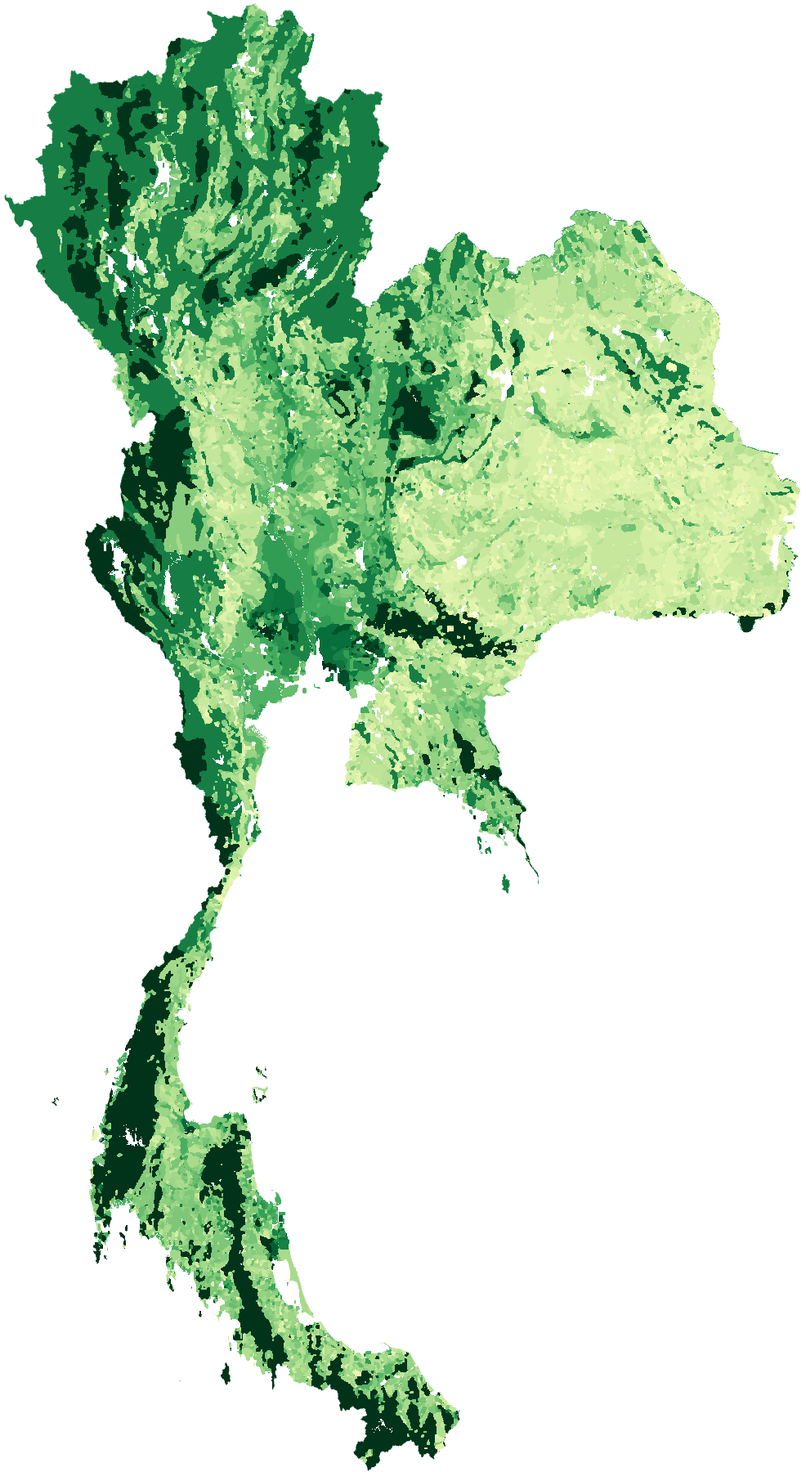
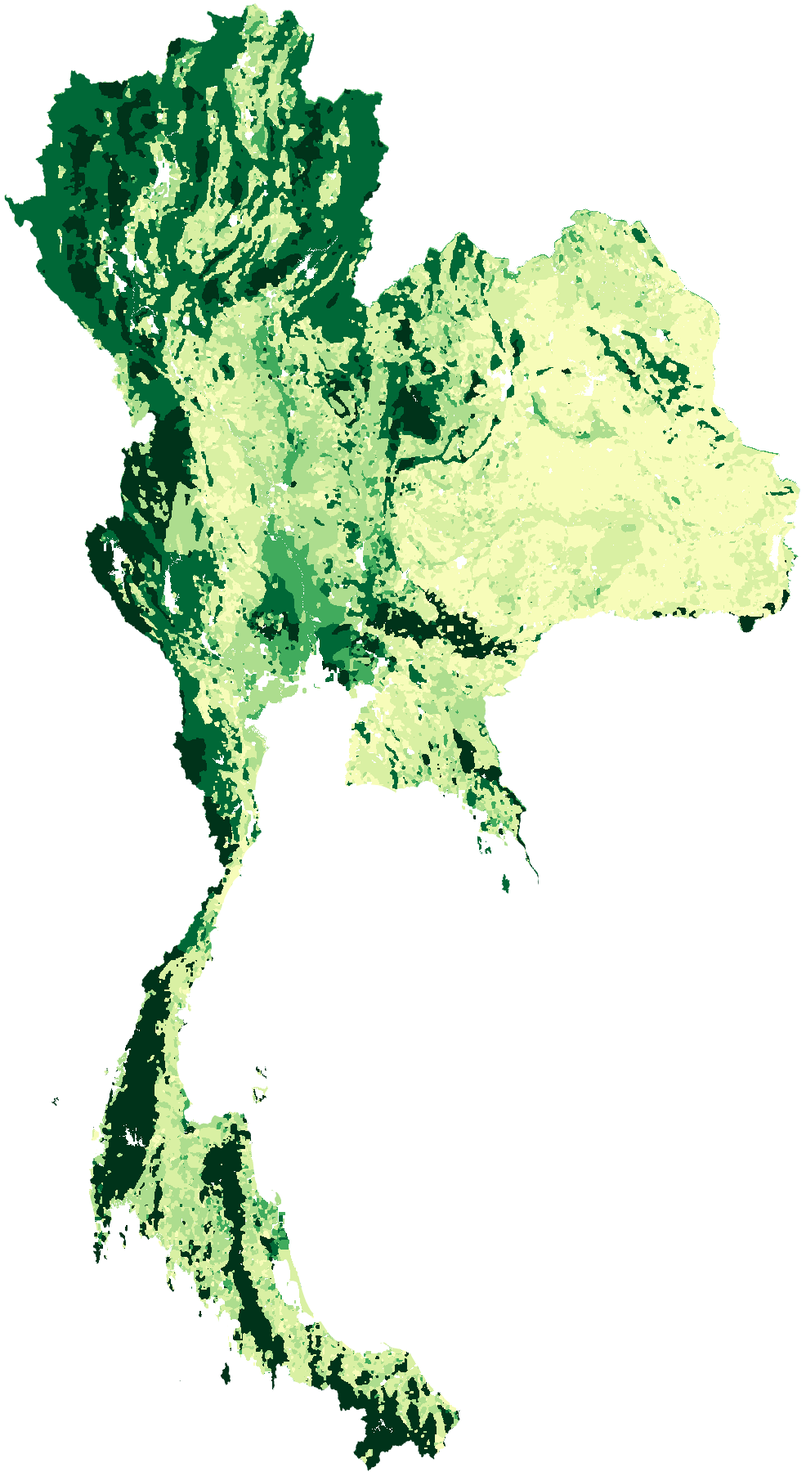
ช่วงชั้นและสีชุดเดียวทั้งระบบ (site/scales.js): จุด, คำอธิบายสี, SoilGrids และภาพจาก GEE
- SoilGrids วาดด้วยช่วงชั้นของเราผ่าน SLD (WMS ของ ISRIC), SOC แปลงเป็น OM %
- build_rasters.py จัดชั้นด้วย scales.js; OpenLandMap OC แปลงเป็น OM %
- pH 11 ระดับตาม LDD ทุกที่ (จุดสำรวจ, ผลวิเคราะห์, WoSIS, raster, บัตรดินดี)

Changed region(s): [[0.0913, 0.0, 0.9736, 0.9956], [0.426, 0.1556, 0.4564, 0.1867], [0.213, 0.0311, 0.2434, 0.0622]]

diff --git a/site/app.js b/site/app.js
@@ -1,10 +1,6 @@
 // แผนที่และตารางจุดสำรวจดิน (อ่านไฟล์ JSON ที่ระบบอัปเดตอัตโนมัติสร้างไว้)
-const PH_ORDER = [
-  ["กรดรุนแรงมากที่สุด", "#7f0000"], ["กรดรุนแรงมาก", "#b30000"], ["กรดจัดมาก", "#d7301f"],
-  ["กรดจัด", "#ef6548"], ["กรดปานกลาง", "#fc8d59"], ["กรดเล็กน้อย", "#fdbb84"],
-  ["เป็นกลาง", "#9ccc65"], ["ด่างเล็กน้อย", "#6baed6"], ["ด่างปานกลาง", "#3182bd"],
-  ["ด่างจัด", "#08519c"], ["Other", "#9e9e9e"],
-];
+// ระดับ pH ของจุดสำรวจภาคสนามใช้สีเดียวกับ SCALES.ph (scales.js); ต้นทางสะกด "กรดรุนแรงมากที่สุด" = "กรดรุนแรงที่สุด"
+const PH_ORDER = [...SCALES.ph.levels.map((l, i) => [l, SCALES.ph.colors[i]]), ["กรดรุนแรงมากที่สุด", SCALES.ph.colors[0]], ["Other", "#9e9e9e"]];
 const PH_COLOR = Object.fromEntries(PH_ORDER);
 const LEVEL_ORDER = ["ต่ำมาก", "ต่ำ", "ปานกลาง", "สูง", "สูงมาก", "Other"];
 const TABLE_LIMIT = 300;
@@ -12,10 +8,6 @@ const TABLE_LIMIT = 300;
 const HIDE_ON_MAP = ["no_coords", "outside_thailand", "off_land", "far_from_province", "no_location", "duplicate",
   "shared_coords", "multi_sample", "amphoe_mismatch", "date_future"];
 const confident = (flags) => !(flags || []).some((f) => HIDE_ON_MAP.includes(f));
-// สี pH ตามค่าจริง: [ค่าบน, สี, ระดับ]
-const PH_STOPS = [[4.5, "#b30000", "กรดรุนแรงมาก"], [5.1, "#d7301f", "กรดจัดมาก"], [5.6, "#ef6548", "กรดจัด"],
-  [6.1, "#fc8d59", "กรดปานกลาง"], [6.6, "#fdbb84", "กรดเล็กน้อย"], [7.4, "#9ccc65", "เป็นกลาง"],
-  [7.9, "#6baed6", "ด่างเล็กน้อย"], [8.5, "#3182bd", "ด่างปานกลาง"], [99, "#08519c", "ด่างจัด"]];
 
 const $ = (id) => document.getElementById(id);
 const esc = (s) => String(s ?? "").replace(/[&<>"]/g, (c) => ({ "&": "&amp;", "<": "&lt;", ">": "&gt;", '"': "&quot;" }[c]));
@@ -116,34 +108,47 @@ let wosisMeta = null;
 let osdSites = [];
 const OSD_PARAMS = [["ph", "pH", ""], ["ec_ds_m", "EC", "dS/m"], ["om_pct", "OM", "%"], ["p_mg_kg", "P", "mg/kg"], ["k_mg_kg", "K", "mg/kg"]];
 
-function phColor(v) {
-  return v == null ? "#9e9e9e" : PH_STOPS.find(([max]) => v < max)[1];
+// ช่วงชั้นและสีมาจาก SCALES (scales.js) ซึ่งแผนที่ดิน raster ใช้ชุดเดียวกัน
+function classIndex(key, v) {
+  const i = SCALES[key].bins.findIndex((b) => v < b);
+  return i < 0 ? SCALES[key].bins.length : i;
 }
+const scaleColor = (key, v) => (v == null ? null : SCALES[key].colors[classIndex(key, v)]);
+const phColor = (v) => scaleColor("ph", v) || "#9e9e9e";
+// [สี, ข้อความ] ของแต่ละชั้น สำหรับคำอธิบายสี
+function scaleItems(key) {
+  const { bins, colors, levels, unit } = SCALES[key];
+  return colors.map((c, i) => {
+    const lo = bins[i - 1], hi = bins[i];
+    const range = key === "ph"
+      ? (lo == null ? `< ${hi}` : hi == null ? `≥ ${lo}` : `${lo}–${(hi - 0.1).toFixed(1)}`)
+      : (lo == null ? `< ${hi}` : hi == null ? `> ${lo}` : `${lo}–${hi}`);
+    const label = key === "ph" ? `pH ${range}` : `${range} ${unit}`;
+    return [c, levels ? (key === "ph" ? `${label} ${val(levels[i])}` : `${val(levels[i])} ${label}`) : label];
+  });
+}
+const FERT_REF = "http://oss101.ldd.go.th/osr_data%26service/OSR_PDF/TB_SSK_Distribute/D_SSK567.pdf";
+const refNote = (key) => (SCALES[key].ref === "fert"
+  ? `${esc(t("fertRef"))} <a href="${FERT_REF}" target="_blank" rel="noopener">${esc(t("fertRefLink"))}</a>` : "");
 
 // ---------- ระบายสีจุดตามค่าที่เลือก ----------
 const NO_DATA = "#b8b2a7";
-const SEQ = ["#ffffcc", "#c7e9b4", "#7fcdbb", "#41b6c4", "#1d91c0", "#225ea8", "#0c2c84"];
-const SALT = ["#fff5eb", "#fdd0a2", "#fd8d3c", "#d94801", "#8c2d04", "#4a1500"];
-const TEX = ["#fff7ec", "#fdd49e", "#fc8d59", "#d7301f", "#990000", "#4d0000"];
-// เกณฑ์ความอุดมสมบูรณ์ของดิน 3 ระดับ (ต่ำ / ปานกลาง / สูง) ของกองสำรวจดิน (2523)
-const FERT = ["#d8b365", "#9bc7a4", "#01665e"];
-const FERT_REF = "http://oss101.ldd.go.th/osr_data%26service/OSR_PDF/TB_SSK_Distribute/D_SSK567.pdf";
-// bins = ค่าขอบบนของแต่ละช่วง; แหล่งที่ไม่มีค่านี้คืน null (แสดงเป็นสีจาง)
+// ค่าของแต่ละแหล่งสำหรับแต่ละตัวแปร (ช่วงชั้นอยู่ใน SCALES) — แหล่งที่ไม่มีค่านี้ไม่มี getter (แสดงเป็นสีจาง)
 const COLOR_VARS = {
-  ph: { unit: "", osd: (s) => s.ph, wosis: (s) => s.ph_h2o_0_30, ldd: "ph" },
-  ec: { unit: "dS/m", bins: [0.2, 0.5, 1, 2, 4], colors: SALT, osd: (s) => s.ec_ds_m, wosis: (s) => s.ec_ds_m_0_30 },
-  om: { unit: "%", bins: [1.5, 3.5], colors: FERT, ldd_ref: true, osd: (s) => s.om_pct,
-    wosis: (s) => (s.orgc_g_kg_0_30 == null ? null : s.orgc_g_kg_0_30 * 0.1724), ldd: "om" },   // OM ≈ OC × 1.724
-  n: { unit: "g/kg", bins: [0.5, 1, 1.5, 2, 3], colors: SEQ, wosis: (s) => s.n_g_kg_0_30 },
-  p: { unit: "mg/kg", bins: [10, 25], colors: FERT, ldd_ref: true, osd: (s) => s.p_mg_kg, ldd: "p" },
-  k: { unit: "mg/kg", bins: [60, 90], colors: FERT, ldd_ref: true, osd: (s) => s.k_mg_kg, ldd: "k" },
-  clay: { unit: "%", bins: [10, 20, 30, 40, 60], colors: TEX, wosis: (s) => s.clay_pct_0_30 },
-  silt: { unit: "%", bins: [10, 20, 30, 40, 60], colors: TEX, wosis: (s) => s.silt_pct_0_30 },
-  sand: { unit: "%", bins: [20, 40, 60, 70, 85], colors: TEX, wosis: (s) => s.sand_pct_0_30 },
-  cec: { unit: "cmol/kg", bins: [10, 20], colors: FERT, ldd_ref: true, wosis: (s) => s.cec_cmol_kg_0_30 },
+  ph: { osd: (s) => s.ph, wosis: (s) => s.ph_h2o_0_30, ldd: "ph" },
+  ec: { osd: (s) => s.ec_ds_m, wosis: (s) => s.ec_ds_m_0_30 },
+  om: { osd: (s) => s.om_pct, wosis: (s) => (s.orgc_g_kg_0_30 == null ? null : s.orgc_g_kg_0_30 * 0.1724), ldd: "om" },   // OM ≈ OC × 1.724
+  n: { wosis: (s) => s.n_g_kg_0_30 },
+  p: { osd: (s) => s.p_mg_kg, ldd: "p" },
+  k: { osd: (s) => s.k_mg_kg, ldd: "k" },
+  clay: { wosis: (s) => s.clay_pct_0_30 },
+  silt: { wosis: (s) => s.silt_pct_0_30 },
+  sand: { wosis: (s) => s.sand_pct_0_30 },
+  cec: { wosis: (s) => s.cec_cmol_kg_0_30 },
 };
-// ระดับของจุดสำรวจภาคสนาม (5 ระดับ) รวมเป็น 3 ระดับตามเกณฑ์ข้างบน
-const LEVEL_COLORS = { "ต่ำมาก": FERT[0], "ต่ำ": FERT[0], "ปานกลาง": FERT[1], "สูง": FERT[2], "สูงมาก": FERT[2] };
+// ระดับของจุดสำรวจภาคสนาม (5 ระดับ) รวมเป็น 3 ระดับตามเกณฑ์ความอุดมสมบูรณ์
+const FERT3 = SCALES.om.colors;
+const LEVEL_COLORS = { "ต่ำมาก": FERT3[0], "ต่ำ": FERT3[0], "ปานกลาง": FERT3[1], "สูง": FERT3[2], "สูงมาก": FERT3[2] };
 let colorVar = "ph";
 
 function colorFor(source, rec) {
@@ -152,11 +157,7 @@ function colorFor(source, rec) {
     if (!def.ldd) return null;
     return (def.ldd === "ph" ? PH_COLOR[rec.ph] : LEVEL_COLORS[rec[def.ldd]]) || null;
   }
-  const v = def[source]?.(rec);
-  if (v == null) return null;
-  if (colorVar === "ph") return phColor(v);
-  const i = def.bins.findIndex((b) => v < b);
-  return def.colors[i < 0 ? def.bins.length : i];
+  return scaleColor(colorVar, def[source]?.(rec));
 }
 function styleFor(source, rec) {
   const c = colorFor(source, rec);
@@ -186,25 +187,12 @@ function renderLegend() {
   const sel = $("color-by"), cur = colorVar;
   sel.innerHTML = Object.keys(COLOR_VARS).map((k) => `<option value="${k}">${esc(t("vars")[k])}</option>`).join("");
   sel.value = cur;
-  let items;
-  if (colorVar === "ph") {
-    items = PH_STOPS.map(([max, c, l], i) => {
-      const lo = i ? PH_STOPS[i - 1][0] : null;
-      const range = lo == null ? `< ${max}` : max > 14 ? `≥ ${lo}` : `${lo}–${(max - 0.1).toFixed(1)}`;
-      return [c, `pH ${range} ${val(l)}`];
-    });
-  } else {
-    items = def.colors.slice(0, def.bins.length + 1).map((c, i) => {
-      const lo = def.bins[i - 1], hi = def.bins[i];
-      const range = `${lo == null ? `< ${hi}` : hi == null ? `> ${lo}` : `${lo}–${hi}`} ${def.unit}`;
-      return [c, def.ldd_ref ? `${t("fertLevels")[i]} ${range}` : range];
-    });
-  }
+  const items = scaleItems(colorVar);
   const sources = ["wosis", "osd", "ldd"].filter((s) => def[s]).map((s) => t({ wosis: "layerWosis", osd: "layerOsd", ldd: "layerLdd" }[s]));
   $("legend").innerHTML = items.map(([c, l]) => `<li><i style="background:${c}"></i>${esc(l)}</li>`).join("") +
     `<li><i style="background:${NO_DATA};opacity:.5"></i>${esc(t("noValue"))}</li>` +
     `<li class="muted small">${esc(t("varSources")(sources.join(", ")))}${colorVar === "om" ? ` · ${esc(t("omNote"))}` : ""}</li>` +
-    (def.ldd_ref ? `<li class="muted small">${esc(t("fertRef"))} <a href="${FERT_REF}" target="_blank" rel="noopener">${esc(t("fertRefLink"))}</a></li>` : "");
+    (refNote(colorVar) ? `<li class="muted small">${refNote(colorVar)}</li>` : "");
 }
 
 function osdPopup(s) {

diff --git a/site/areas.js b/site/areas.js
@@ -105,17 +105,15 @@ const landCover = new LandCoverLayer("", {
 });
 
 // ---------- แผนที่ดิน (raster): SoilGrids ผ่าน WMS ของ ISRIC, อื่น ๆ เป็นภาพจาก Earth Engine (build_rasters.py) ----------
-// [id, map, layer, ชื่อ th, ชื่อ en, ตัวหารเป็นหน่วยจริง, หน่วย]
+// [id, map, layer, ชื่อ th, ชื่อ en, ช่วงชั้นใน SCALES, ตัวคูณจากค่าดิบของ ISRIC เป็นหน่วยของช่วงชั้น]
 const SOILGRIDS = [
-  ["sg_ph", "phh2o", "phh2o_0-5cm_mean", "pH ดินผิว 0–5 cm (SoilGrids 250 m)", "Topsoil pH 0–5 cm (SoilGrids 250 m)", 10, "pH"],
-  ["sg_soc", "soc", "soc_0-5cm_mean", "อินทรีย์คาร์บอน 0–5 cm (SoilGrids)", "Organic carbon 0–5 cm (SoilGrids)", 10, "g/kg"],
-  ["sg_clay", "clay", "clay_0-5cm_mean", "ดินเหนียว 0–5 cm (SoilGrids)", "Clay 0–5 cm (SoilGrids)", 10, "%"],
-  ["sg_n", "nitrogen", "nitrogen_0-5cm_mean", "ไนโตรเจน 0–5 cm (SoilGrids)", "Nitrogen 0–5 cm (SoilGrids)", 100, "g/kg"],
-  ["sg_cec", "cec", "cec_0-5cm_mean", "CEC 0–5 cm (SoilGrids)", "CEC 0–5 cm (SoilGrids)", 10, "cmol/kg"],
+  ["sg_ph", "phh2o", "phh2o_0-5cm_mean", "pH ดินผิว 0–5 cm (SoilGrids 250 m)", "Topsoil pH 0–5 cm (SoilGrids 250 m)", "ph", 0.1],
+  ["sg_om", "soc", "soc_0-5cm_mean", "อินทรียวัตถุ (OM) 0–5 cm จาก SOC (SoilGrids)", "Organic matter 0–5 cm from SOC (SoilGrids)", "om", 0.01724],   // dg/kg → OM % (× 1.724)
+  ["sg_clay", "clay", "clay_0-5cm_mean", "ดินเหนียว 0–5 cm (SoilGrids)", "Clay 0–5 cm (SoilGrids)", "clay", 0.1],
+  ["sg_n", "nitrogen", "nitrogen_0-5cm_mean", "ไนโตรเจน 0–5 cm (SoilGrids)", "Nitrogen 0–5 cm (SoilGrids)", "n", 0.01],
+  ["sg_cec", "cec", "cec_0-5cm_mean", "CEC 0–5 cm (SoilGrids)", "CEC 0–5 cm (SoilGrids)", "cec", 0.1],
 ];
 const SG_WMS = "https://maps.isric.org/mapserv?map=/map/";
-// สีและค่าขอบจากภาพ legend ของ ISRIC (GetLegendGraphic) — ใช้วาดแถบสีให้อ่านง่าย
-const SG_LEGEND = {"phh2o": {"colors": ["#f0f63d", "#ebe51a", "#a5db36", "#81d255", "#54b93a", "#39b32f", "#359d3b", "#2c9840", "#34b07a", "#28b6b5", "#0fccd9"], "labels": [34, 48, 51, 52, 54, 55, 56, 57, 58, 59, 60, 61, 62, 64, 65, 67, 68, 70, 72, 73, 75, 76, 77, 79, 79, 80, 81, 82, 83, 92]}, "soc": {"colors": ["#fbf9f9", "#ede7e5", "#dfd4d1", "#d2c2bd", "#c4afa9", "#b69d95", "#a98a82", "#9b786e", "#8d655a", "#7f5246", "#724032"], "labels": [6, 27, 38, 43, 53, 64, 85, 106, 127, 142, 163, 184, 210, 236, 268, 299, 330, 362, 398, 445, 492, 560, 633, 727, 832, 962, 1114, 1312, 1521, 1839, 2174, 4471]}, "clay": {"colors": ["#f2dac1", "#e7c4a0", "#dcae80", "#d19860", "#c5894d", "#b97e44", "#ac743b", "#9f6832", "#935e29", "#875320", "#7a4917", "#764615"], "labels": [7, 32, 58, 83, 109, 134, 160, 185, 211, 236, 262, 288, 313, 339, 364, 390, 415, 441, 466, 492, 517, 543, 569, 594, 620, 645, 671, 696, 722, 747, 773, 799]}, "nitrogen": {"colors": ["#f7fcf5", "#eaf7e6", "#d7f0d1", "#bee6b8", "#a2da9c", "#81ca80", "#5cb96a", "#3aa458", "#248c46", "#14853c", "#057f33", "#007d30"], "labels": [42, 80, 119, 157, 196, 234, 273, 311, 350, 388, 427, 466, 504, 543, 581, 620, 658, 697, 735, 774, 812, 851, 890, 928, 967, 1005, 1044, 1082, 1121, 1159, 1198, 1237]}, "cec": {"colors": ["#edf8fb", "#d7e8f2", "#c0d7e9", "#adc4df", "#9eafd3", "#8f9ac8", "#8b81bc", "#8968b0", "#8e50aa", "#a837b4", "#c11fbe", "#ca17c2"], "labels": [11, 95, 111, 122, 130, 137, 145, 153, 161, 170, 179, 189, 199, 209, 219, 229, 239, 249, 258, 270, 282, 296, 313, 337, 359, 380, 404, 431, 465, 505, 570, 852]}};
 let rasterMeta = [];
 let rasterLayer = null;
 
@@ -146,25 +144,26 @@ const MapLegend = L.Control.extend({
 map.addControl(new MapLegend());
 let legendOpen = true;
 
-// แถบสี + ค่า 5 ตำแหน่ง (ช่วงค่าของ SoilGrids ไม่เป็นเส้นตรง จึงอ่านค่าจากตำแหน่งในรายการขอบ)
-function sgRamp(sg) {
-  const { colors, labels } = SG_LEGEND[sg[1]];
-  const ticks = [0, .25, .5, .75, 1].map((f) => +(labels[Math.round(f * (labels.length - 1))] / sg[5]).toFixed(sg[5] >= 100 ? 2 : 1));
-  return `<div class="ramp" style="background:linear-gradient(to right,${colors.join(",")})"></div>
-    <div class="ramp-labels">${ticks.map((v) => `<span>${v}</span>`).join("")}</div><p>${t("unit")}: ${sg[6]}</p>`;
+// สไตล์ SLD ให้ WMS ของ ISRIC วาดด้วยช่วงชั้นและสีเดียวกับจุด (สีของแต่ละรายการใช้ตั้งแต่ค่านั้นถึงรายการถัดไป)
+function sgSld(sg) {
+  const { bins, colors } = SCALES[sg[5]];
+  const entries = colors.map((c, i) => [c, i ? bins[i - 1] / sg[6] : 0]).concat([[colors[colors.length - 1], 1e7]]);
+  return `<StyledLayerDescriptor version="1.0.0" xmlns="http://www.opengis.net/sld"><NamedLayer><Name>${sg[2]}</Name><UserStyle><FeatureTypeStyle><Rule><RasterSymbolizer><ColorMap type="intervals">` +
+    entries.map(([c, q]) => `<ColorMapEntry color="${c}" quantity="${+q.toFixed(3)}"/>`).join("") +
+    "</ColorMap></RasterSymbolizer></Rule></FeatureTypeStyle></UserStyle></NamedLayer></StyledLayerDescriptor>";
 }
+const scaleList = (key) => `<ul class="legend">${scaleItems(key).map(([c, l]) => `<li><i style="background:${c}"></i>${esc(l)}</li>`).join("")}</ul>` +
+  (refNote(key) ? `<p>${refNote(key)}</p>` : "");
 
 function rasterLegend() {
   const id = $("raster").value, sg = SOILGRIDS.find((r) => r[0] === id), im = rasterMeta.find((r) => r.id === id);
   const parts = [];
   if (rasterLayer && sg) {
     parts.push(`<section><b>${esc(lang === "en" ? sg[4] : sg[3])}</b>
-      ${sgRamp(sg)}<p>ISRIC SoilGrids 2.0 · CC BY 4.0 · ${t("rasterEstimate")}</p></section>`);
+      ${scaleList(sg[5])}<p>ISRIC SoilGrids 2.0 · CC BY 4.0 · ${t("rasterEstimate")}</p></section>`);
   } else if (rasterLayer && im) {
     parts.push(`<section><b>${esc(lang === "en" ? im.en : im.th)}</b>
-      <div class="ramp" style="background:linear-gradient(to right,${im.palette.join(",")})"></div>
-      <div class="ramp-labels"><span>${im.min}</span><span>${im.unit}</span><span>${im.max}+</span></div>
-      <p>${esc(im.source)} · ${esc(im.license)} · ${t("rasterEstimate")}</p></section>`);
+      ${scaleList(im.scale)}<p>${esc(im.source)} · ${esc(im.license)} · ${t("rasterEstimate")}</p></section>`);
   }
   if ($("l-lc").checked) {
     parts.push(`<section><b>${t("layerLandcover")} · ${$("lc-year").value}</b><ul class="legend lc">
@@ -183,6 +182,7 @@ function setRaster() {
   if (sg) {
     rasterLayer = L.tileLayer.wms(`${SG_WMS}${sg[1]}.map`, {
       layers: sg[2], format: "image/png", transparent: true, version: "1.3.0", opacity, pane: "rasters",
+      sld_body: sgSld(sg),
       attribution: "SoilGrids © ISRIC (CC BY 4.0)",
     });
   } else if (im) {

diff --git a/site/scales.js b/site/scales.js
@@ -1,0 +1,19 @@
+// ช่วงชั้นและสีของทุกค่า — ใช้ร่วมกันทั้งระบบ: สีจุดบนแผนที่, คำอธิบายสี, แผนที่ดิน raster (SoilGrids ผ่าน SLD
+// และภาพจาก scripts/build_rasters.py ซึ่งอ่านไฟล์นี้) — เนื้อหาหลัง "=" ต้องเป็น JSON
+// bins = ขอบบนของแต่ละชั้น (ค่า < bins[0] ได้สีแรก), colors มากกว่า bins หนึ่งสี
+// levels: ชื่อระดับ (th) ของแต่ละชั้น; ref "fert" = เกณฑ์ความอุดมสมบูรณ์ของดิน กองสำรวจดิน (2523)
+const SCALES = {
+ "ph": {"unit": "", "bins": [3.5, 4.5, 5.1, 5.6, 6.1, 6.6, 7.4, 7.9, 8.5, 9.1],
+        "colors": ["#67000d", "#b30000", "#d7301f", "#ef6548", "#fc8d59", "#fdbb84", "#9ccc65", "#6baed6", "#3182bd", "#08519c", "#08306b"],
+        "levels": ["กรดรุนแรงที่สุด", "กรดรุนแรงมาก", "กรดจัดมาก", "กรดจัด", "กรดปานกลาง", "กรดเล็กน้อย", "เป็นกลาง", "ด่างเล็กน้อย", "ด่างปานกลาง", "ด่างจัด", "ด่างจัดมาก"]},
+ "ec": {"unit": "dS/m", "bins": [0.2, 0.5, 1, 2, 4], "colors": ["#fff5eb", "#fdd0a2", "#fd8d3c", "#d94801", "#8c2d04", "#4a1500"]},
+ "om": {"unit": "%", "bins": [1.5, 3.5], "colors": ["#d8b365", "#9bc7a4", "#01665e"], "levels": ["ต่ำ", "ปานกลาง", "สูง"], "ref": "fert"},
+ "n": {"unit": "g/kg", "bins": [0.5, 1, 1.5, 2, 3], "colors": ["#ffffcc", "#c7e9b4", "#7fcdbb", "#41b6c4", "#225ea8", "#0c2c84"]},
+ "p": {"unit": "mg/kg", "bins": [10, 25], "colors": ["#d8b365", "#9bc7a4", "#01665e"], "levels": ["ต่ำ", "ปานกลาง", "สูง"], "ref": "fert"},
+ "k": {"unit": "mg/kg", "bins": [60, 90], "colors": ["#d8b365", "#9bc7a4", "#01665e"], "levels": ["ต่ำ", "ปานกลาง", "สูง"], "ref": "fert"},
+ "clay": {"unit": "%", "bins": [10, 20, 30, 40, 60], "colors": ["#fff7ec", "#fdd49e", "#fc8d59", "#d7301f", "#990000", "#4d0000"]},
+ "silt": {"unit": "%", "bins": [10, 20, 30, 40, 60], "colors": ["#fff7ec", "#fdd49e", "#fc8d59", "#d7301f", "#990000", "#4d0000"]},
+ "sand": {"unit": "%", "bins": [20, 40, 60, 70, 85], "colors": ["#fff7ec", "#fdd49e", "#fc8d59", "#d7301f", "#990000", "#4d0000"]},
+ "cec": {"unit": "cmol/kg", "bins": [10, 20], "colors": ["#d8b365", "#9bc7a4", "#01665e"], "levels": ["ต่ำ", "ปานกลาง", "สูง"], "ref": "fert"},
+ "gsoc": {"unit": "t/ha", "bins": [20, 40, 60, 80, 100], "colors": ["#f7fcb9", "#d9f0a3", "#addd8e", "#41ab5d", "#006837", "#00331a"]}
+};

diff --git a/site/check.js b/site/check.js
@@ -1,10 +1,6 @@
 // ตรวจดินจากพิกัด: ค่าวัดจริงใกล้เคียง (LDD, ผลวิเคราะห์ดิน, WoSIS), ค่าประมาณจากแผนที่ดินโลก, บัตรดินดีของตำบล
-// ใช้ตัวแปรร่วมจาก app.js: map, t, esc, num, day, val, phColor, $ และ areaAt จาก areas.js
-const PH_CLASSES = [
-  [3.5, "กรดรุนแรงที่สุด"], [4.5, "กรดรุนแรงมาก"], [5.1, "กรดจัดมาก"], [5.6, "กรดจัด"], [6.1, "กรดปานกลาง"],
-  [6.6, "กรดเล็กน้อย"], [7.4, "เป็นกลาง"], [7.9, "ด่างเล็กน้อย"], [8.5, "ด่างปานกลาง"], [9.1, "ด่างจัด"], [99, "ด่างจัดมาก"],
-];
-const phClass = (v) => (v == null ? "" : PH_CLASSES.find(([max]) => v < max)[1]);
+// ใช้ตัวแปรร่วมจาก app.js: map, t, esc, num, day, val, phColor, classIndex, $; SCALES จาก scales.js; areaAt จาก areas.js
+const phClass = (v) => (v == null ? "" : SCALES.ph.levels[classIndex("ph", v)]);
 const SG_PROPS = [["phh2o", "pH"], ["soc", "SOC g/kg"], ["clay", "Clay %"], ["silt", "Silt %"], ["sand", "Sand %"], ["cec", "CEC"]];
 const SG_DEPTHS = ["0-5cm", "5-15cm", "15-30cm"];
 const GEE_LABELS = {
@@ -166,17 +162,10 @@ function pinPopup() {
 const bar = (counts) => {
   const total = Object.values(counts).reduce((a, b) => a + b, 0);
   if (!total) return "–";
-  const order = PH_CLASSES.map((x) => x[1]);
+  const order = SCALES.ph.levels;
   return `<div class="bar">${Object.entries(counts).sort((a, b) => order.indexOf(a[0]) - order.indexOf(b[0]))
-    .map(([c, n]) => `<i style="flex:${n};background:${phColor(phMid(c))}" title="${esc(val(c))}: ${n}"></i>`).join("")}</div>`;
+    .map(([c, n]) => `<i style="flex:${n};background:${SCALES.ph.colors[order.indexOf(c)] || "#9e9e9e"}" title="${esc(val(c))}: ${n}"></i>`).join("")}</div>`;
 };
-// ค่ากลางของระดับ pH ไว้ใช้เลือกสี
-function phMid(c) {
-  const i = PH_CLASSES.findIndex((x) => x[1] === c);
-  if (i < 0) return null;
-  const lo = i ? PH_CLASSES[i - 1][0] : 3;
-  return (lo + Math.min(PH_CLASSES[i][0], 10)) / 2;
-}
 const topClasses = (counts, k = 3) => {
   const total = Object.values(counts).reduce((a, b) => a + b, 0);
   return Object.entries(counts).sort((a, b) => b[1] - a[1]).slice(0, k)

diff --git a/site/i18n.js b/site/i18n.js
@@ -57,7 +57,6 @@ const I18N = {
     vars: { ph: "pH ความเป็นกรด-ด่าง", ec: "EC ความเค็ม", om: "OM อินทรียวัตถุ", n: "N ไนโตรเจน", p: "P ฟอสฟอรัส",
       k: "K โพแทสเซียม", clay: "Clay ดินเหนียว", silt: "Silt ทรายแป้ง", sand: "Sand ทราย", cec: "CEC ความจุแลกเปลี่ยนแคตไอออน" },
     noValue: "ไม่มีค่านี้ (จุดจาง)",
-    fertLevels: ["ต่ำ", "ปานกลาง", "สูง"],
     fertRef: "เกณฑ์การจัดระดับความอุดมสมบูรณ์ของดิน กองสำรวจดิน (2523) อ้างใน",
     fertRefLink: "สุธินี ขจรเวหาศน์, กรมพัฒนาที่ดิน (ตารางที่ 1)",
     varSources: (s) => `มีค่าใน: ${s}`,
@@ -258,7 +257,6 @@ const I18N = {
     vars: { ph: "pH (acidity)", ec: "EC (salinity)", om: "OM (organic matter)", n: "N (nitrogen)", p: "P (phosphorus)",
       k: "K (potassium)", clay: "Clay", silt: "Silt", sand: "Sand", cec: "CEC (cation exchange capacity)" },
     noValue: "No value (faded)",
-    fertLevels: ["Low", "Medium", "High"],
     fertRef: "Soil fertility rating criteria, Soil Survey Division (1980), cited in",
     fertRefLink: "Suthinee Khajornwehas, Land Development Department (Table 1)",
     varSources: (s) => `Available in: ${s}`,

diff --git a/site/index.html b/site/index.html
@@ -184,6 +184,7 @@
   <script src="https://cdnjs.cloudflare.com/ajax/libs/leaflet/1.9.4/leaflet.min.js"></script>
   <script src="https://cdnjs.cloudflare.com/ajax/libs/leaflet.markercluster/1.5.3/leaflet.markercluster.min.js"></script>
   <script src="i18n.js?v=dev"></script>
+  <script src="scales.js?v=dev"></script>
   <script src="app.js?v=dev"></script>
   <script src="areas.js?v=dev"></script>
   <script src="check.js?v=dev"></script>

diff --git a/scripts/build_rasters.py b/scripts/build_rasters.py
@@ -7,7 +7,8 @@
 ภาพเป็น EPSG:3857 (ตรงกับแผนที่เว็บ) ความละเอียดราว 1 km ตัดตามขอบเขตประเทศไทย
 raster คงที่ จึงรันครั้งเดียว (หรือเมื่อเพิ่มชั้นใหม่) — ยืนยันตัวตนเหมือน sample_gee.py
 
-ผลลัพธ์: data/ref/rasters/<id>.png และ rasters.json (ขอบเขต ช่วงค่า สี หน่วย แหล่ง)
+ผลลัพธ์: data/ref/rasters/<id>.png และ rasters.json (ขอบเขต ช่วงชั้นที่ใช้ แหล่ง)
+จัดชั้นด้วยช่วงชั้นและสีจาก site/scales.js เหมือนสีจุดบนเว็บ
 """
 import json
 import os
@@ -21,20 +22,25 @@ ROOT = os.path.dirname(os.path.dirname(os.path.abspath(__file__)))
 OUT = os.path.join(ROOT, "data", "ref", "rasters")
 WEST, SOUTH, EAST, NORTH = 97.3, 5.6, 105.7, 20.5
 WIDTH = 1800  # px ด้านยาว (เหนือ-ใต้) ≈ 1 km ต่อ px
-PH_PALETTE = ["b30000", "d7301f", "ef6548", "fc8d59", "fdbb84", "9ccc65", "6baed6", "3182bd", "08519c"]
 
-# (id, asset, band, ตัวคูณ, min, max, palette, หน่วย, ชื่อ th, ชื่อ en, แหล่ง, สัญญาอนุญาต)
+
+def load_scales():
+    """ช่วงชั้นและสีจาก site/scales.js (ชุดเดียวกับสีจุดบนเว็บ)"""
+    with open(os.path.join(ROOT, "site", "scales.js"), encoding="utf-8") as f:
+        text = f.read()
+    return json.loads(text[text.index("const SCALES =") + len("const SCALES ="):].strip().rstrip(";"))
+
+
+# (id, asset, band, ตัวคูณจากค่าดิบเป็นหน่วยของช่วงชั้น, ช่วงชั้นใน scales.js, ชื่อ th, ชื่อ en, แหล่ง, สัญญาอนุญาต)
 LAYERS = [
-    ("olm_ph", "OpenLandMap/SOL/SOL_PH-H2O_USDA-4C1A2A_M/v02", "b0", 0.1, 4.0, 8.5, PH_PALETTE, "pH",
+    ("olm_ph", "OpenLandMap/SOL/SOL_PH-H2O_USDA-4C1A2A_M/v02", "b0", 0.1, "ph",
      "pH ดินผิว (OpenLandMap 250 m)", "Topsoil pH (OpenLandMap 250 m)", "OpenLandMap / OpenGeoHub", "CC BY-SA 4.0"),
-    ("olm_oc", "OpenLandMap/SOL/SOL_ORGANIC-CARBON_USDA-6A1C_M/v02", "b0", 5, 0, 40,
-     ["fff7bc", "fec44f", "d95f0e", "8c510a", "3d2203"], "g/kg",
-     "อินทรีย์คาร์บอนในดินผิว (OpenLandMap)", "Topsoil organic carbon (OpenLandMap)", "OpenLandMap / OpenGeoHub", "CC BY-SA 4.0"),
-    ("olm_clay", "OpenLandMap/SOL/SOL_CLAY-WFRACTION_USDA-3A1A1A_M/v02", "b0", 1, 0, 60,
-     ["ffffd4", "fed98e", "fe9929", "cc4c02", "662506"], "%",
+    # ค่าดิบ = OC หน่วย 5 g/kg → OM % = OC (g/kg) × 0.1724
+    ("olm_om", "OpenLandMap/SOL/SOL_ORGANIC-CARBON_USDA-6A1C_M/v02", "b0", 5 * 0.1724, "om",
+     "อินทรียวัตถุ (OM) ดินผิว จาก OC (OpenLandMap)", "Topsoil organic matter from OC (OpenLandMap)", "OpenLandMap / OpenGeoHub", "CC BY-SA 4.0"),
+    ("olm_clay", "OpenLandMap/SOL/SOL_CLAY-WFRACTION_USDA-3A1A1A_M/v02", "b0", 1, "clay",
      "ดินเหนียวในดินผิว (OpenLandMap)", "Topsoil clay (OpenLandMap)", "OpenLandMap / OpenGeoHub", "CC BY-SA 4.0"),
-    ("gsoc", "projects/sat-io/open-datasets/FAO/GSOCMAP1-5-0", "b1", 1, 0, 120,
-     ["f7fcb9", "addd8e", "41ab5d", "006837", "00331a"], "t/ha",
+    ("gsoc", "projects/sat-io/open-datasets/FAO/GSOCMAP1-5-0", "b1", 1, "gsoc",
      "คาร์บอนสะสมในดิน 0–30 cm (FAO GSOCmap 1 km)", "Soil organic carbon stock 0–30 cm (FAO GSOCmap 1 km)", "FAO Global Soil Partnership", "CC BY"),
 ]
 
@@ -42,18 +48,27 @@ LAYERS = [
 def main():
     init()
     os.makedirs(OUT, exist_ok=True)
+    scales = load_scales()
     thailand = ee.FeatureCollection("USDOS/LSIB_SIMPLE/2017").filter(ee.Filter.eq("country_na", "Thailand"))
     region = ee.Geometry.Rectangle([WEST, SOUTH, EAST, NORTH], proj="EPSG:4326", geodesic=False)
+    for old in os.listdir(OUT):
+        if old.endswith(".png"):
+            os.remove(os.path.join(OUT, old))
     meta = []
-    for lid, asset, band, mult, vmin, vmax, palette, unit, th, en, source, lic in LAYERS:
-        img = ee.Image(asset).select(band).multiply(mult).clipToCollection(thailand)
-        url = img.getThumbURL({"region": region, "dimensions": WIDTH, "crs": "EPSG:3857", "format": "png",
-                               "min": vmin, "max": vmax, "palette": palette})
+    for lid, asset, band, mult, key, th, en, source, lic in LAYERS:
+        sc = scales[key]
+        img = ee.Image(asset).select(band).multiply(mult)
+        # จัดชั้น: จำนวนขอบที่ค่ามากกว่าหรือเท่ากับ = ลำดับชั้น (ตรงกับ classIndex ใน site/app.js)
+        cls = ee.Image.constant(0)
+        for b in sc["bins"]:
+            cls = cls.add(img.gte(b))
+        cls = cls.updateMask(img.mask()).clipToCollection(thailand)
+        url = cls.getThumbURL({"region": region, "dimensions": WIDTH, "crs": "EPSG:3857", "format": "png",
+                               "min": 0, "max": len(sc["colors"]) - 1, "palette": [c.lstrip("#") for c in sc["colors"]]})
         with urllib.request.urlopen(url, timeout=600) as r, open(os.path.join(OUT, f"{lid}.png"), "wb") as f:
             f.write(r.read())
-        meta.append({"id": lid, "file": f"{lid}.png", "bounds": [[SOUTH, WEST], [NORTH, EAST]], "min": vmin, "max": vmax,
-                     "palette": ["#" + c for c in palette], "unit": unit, "th": th, "en": en, "source": source, "license": lic,
-                     "asset": asset})
+        meta.append({"id": lid, "file": f"{lid}.png", "bounds": [[SOUTH, WEST], [NORTH, EAST]], "scale": key,
+                     "th": th, "en": en, "source": source, "license": lic, "asset": asset})
         print(lid, os.path.getsize(os.path.join(OUT, f"{lid}.png")))
     with open(os.path.join(OUT, "rasters.json"), "w", encoding="utf-8") as f:
         json.dump(meta, f, ensure_ascii=False, indent=1)

diff --git a/docs/data-cleaning.md b/docs/data-cleaning.md
@@ -195,6 +195,11 @@ profile ที่ห่างจากจุด LDD ≤ 250 m ในปีเด
 
 ## F. เกณฑ์ที่ใช้แสดงผลบนเว็บ
 
+ช่วงชั้นและสีของทุกค่าอยู่ที่เดียวใน [`site/scales.js`](../site/scales.js) และใช้ร่วมกันทั้งระบบ:
+สีจุดของทุกแหล่ง, คำอธิบายสี, SoilGrids (ส่งช่วงชั้นไปให้ WMS ของ ISRIC วาดผ่าน SLD) และภาพจาก Earth Engine
+([`scripts/build_rasters.py`](../scripts/build_rasters.py) จัดชั้นด้วยไฟล์เดียวกัน) ค่าคาร์บอนของแผนที่ raster แปลงเป็น OM (%) ด้วย × 1.724 ให้เทียบกับจุดได้
+pH ใช้ 11 ระดับตามที่ LDD รายงาน (กรดรุนแรงที่สุด < 3.5 … ด่างจัดมาก > 9.0)
+
 สีของจุดสำหรับ OM, P, K และ CEC ใช้เกณฑ์การจัดระดับความอุดมสมบูรณ์ของดิน 3 ระดับของกองสำรวจดิน (2523)
 ตามตารางที่ 1 ใน [สุธินี ขจรเวหาศน์, *การประเมินระดับปริมาณธาตุอาหารและความอุดมสมบูรณ์ของดินเพื่อให้คำแนะนำการจัดการดินและปุ๋ยสำหรับพืชเศรษฐกิจ จังหวัดหนองบัวลำภู*, กรมพัฒนาที่ดิน](http://oss101.ldd.go.th/osr_data%26service/OSR_PDF/TB_SSK_Distribute/D_SSK567.pdf)
 
@@ -207,7 +212,7 @@ profile ที่ห่างจากจุด LDD ≤ 250 m ในปีเด
 - OM ของ WoSIS แปลงจากอินทรีย์คาร์บอนด้วย OM = OC × 1.724 (เอกสารเดียวกัน)
 - ระดับ 5 ขั้นของจุดสำรวจภาคสนาม (ต่ำมาก…สูงมาก) รวมเป็น 3 ระดับ: ต่ำมาก/ต่ำ → ต่ำ, ปานกลาง → ปานกลาง, สูง/สูงมาก → สูง
 - ยังไม่คำนวณระดับความอุดมสมบูรณ์รวม (คะแนน 5–15) เพราะไม่มีแหล่งใดมีครบทั้ง 5 ค่า (ผลวิเคราะห์ดินไม่มี CEC/BS, WoSIS ไม่มี P/K)
-- pH ใช้ช่วงระดับความเป็นกรด-ด่างของ LDD; EC, N, sand/silt/clay ใช้ช่วงเพื่อการอ่านสีเท่านั้น ไม่ใช่เกณฑ์ทางการ
+- EC, N, sand/silt/clay และคาร์บอนสะสม (GSOCmap) ใช้ช่วงเพื่อการอ่านสีเท่านั้น ไม่ใช่เกณฑ์ทางการ
 
 ## ใช้ข้อมูลที่ทำความสะอาดแล้ว
 
